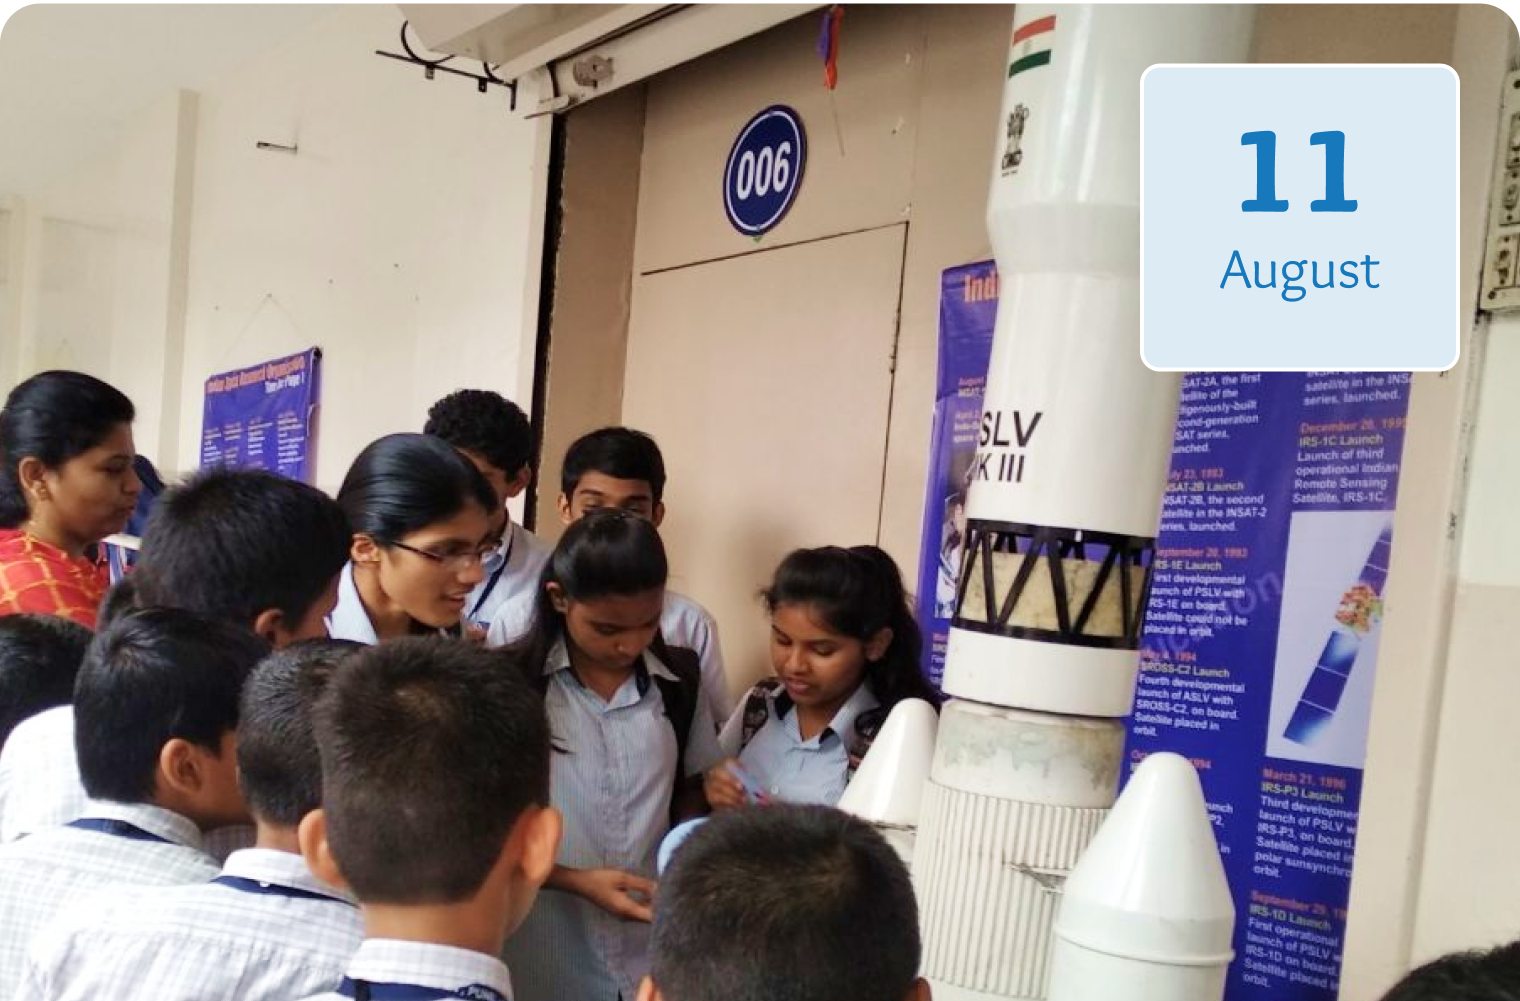
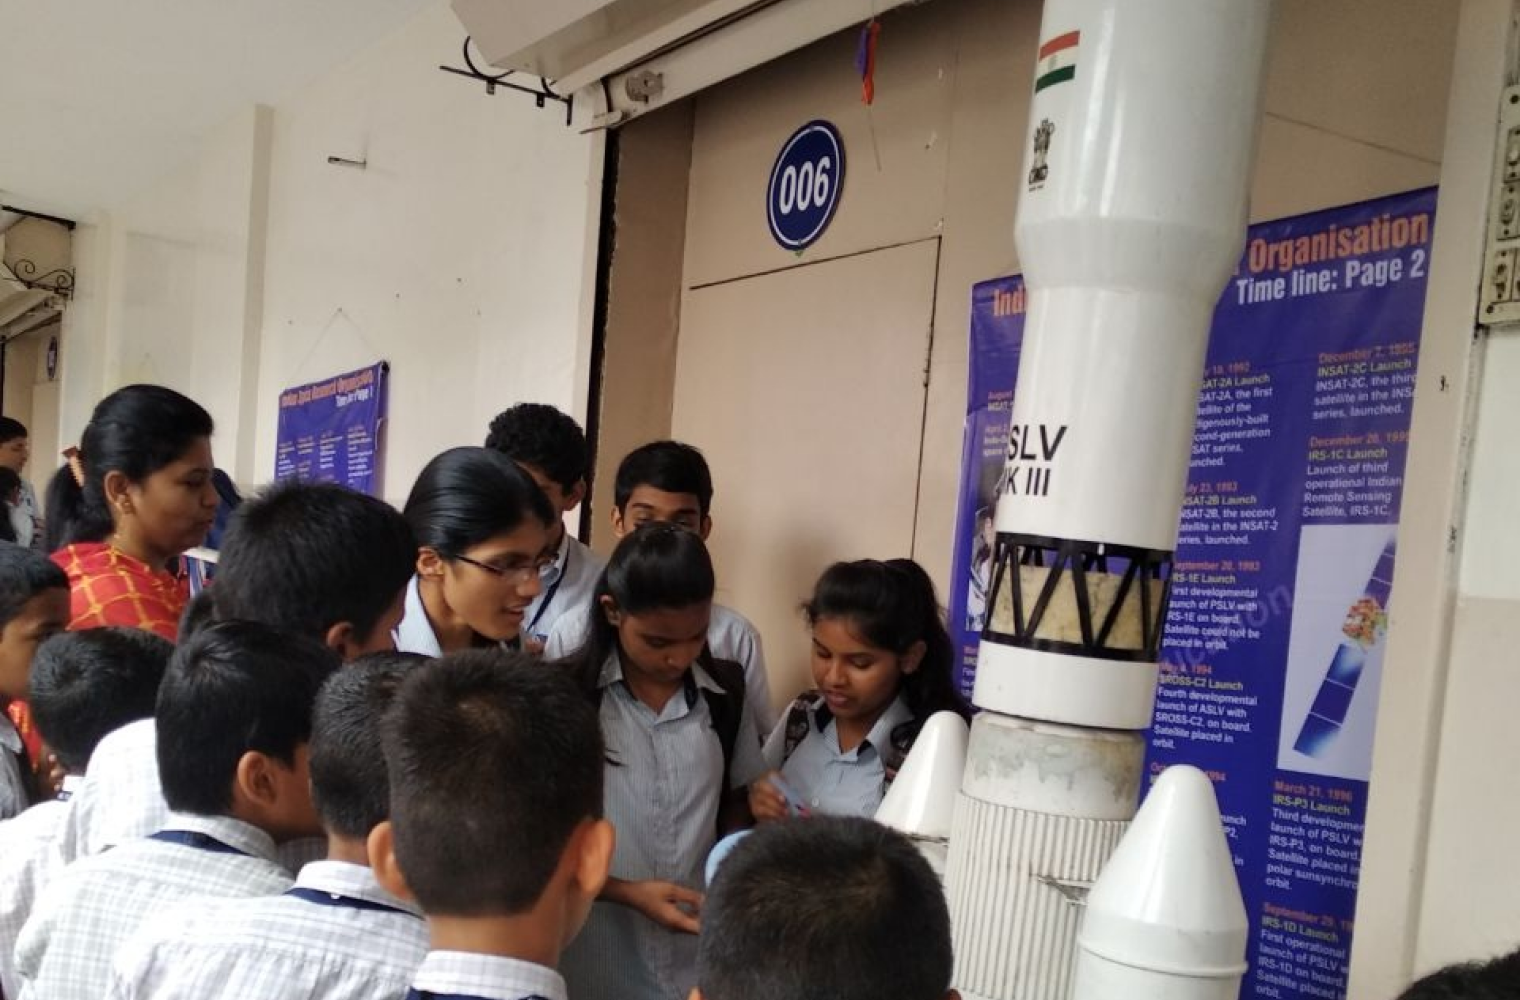
code update

diff --git a/VG-School-Website-2024/Script.js b/VG-School-Website-2024/Script.js
@@ -112,7 +112,7 @@ const Events = [
       "Space Program was conducted by ISRO Scientest for the students of Vishwakarma Vidyalaya.",
     Time: "Time: 11:00am - 03:00pm",
     Place: "Location: VV, pune",
-    // EventCurrentMonth: "11",
+    EventCurrentMonth: "11",
     EventCurrentYear: "August",
   },
   {
@@ -122,7 +122,7 @@ const Events = [
       "An Aikido workshop which is a contemporary martial art of harmony was conducted for children at WWS, Balewadi.",
     Time: "Time: 11:00am - 03:00pm",
     Place: "Location: WWS, Balewadi",
-    // EventCurrentMonth: "11",
+    EventCurrentMonth: "11",
     EventCurrentYear: "August",
   },
   {
@@ -132,7 +132,7 @@ const Events = [
       "3 ISRO scientists visited Vishwakarma Vidyalaya and interacted with the students on topic of Space Technology during school’s science exhibition.",
     Time: "Time: 11:00am - 03:00pm",
     Place: "Location: vV pune",
-    // EventCurrentMonth: "11",
+    EventCurrentMonth: "11",
     EventCurrentYear: "August",
   },
 ];
@@ -142,6 +142,9 @@ const upcomingEvent = (eventData, index) => {
 <div class="item">
 <div class="event_img">
 <img src="${eventData.Img}" alt="${index}">
+<div class="current_tags position-absolute d-flex flex-column text-center align-items-center justify-content-center"><p>${eventData.EventCurrentMonth}</p>
+<p>${eventData.EventCurrentYear}</p></div>
+
 </div>
 <div class="event_body">
 <p>${eventData.Title}</p>

diff --git a/VG-School-Website-2024/Style.css b/VG-School-Website-2024/Style.css
@@ -373,6 +373,33 @@ div#box2 .heading_wrapper p:nth-child(2) {
   width: 13px;
 }
 
+.upcoming_events .owl-carousel .owl-item img{
+    border-radius: 10px 10px 0 0;
+}
+
+.upcoming_events .event_img .current_tags p:nth-child(1),.upcoming_events .event_img p:nth-child(2){
+    color: rgba(24, 120, 188, 1);
+    margin: 0;
+}
+ 
+.upcoming_events .event_img .current_tags p:nth-child(1){
+    font-weight: 900;
+    font-size: 30px;
+}
+.upcoming_events .event_img .current_tags p:nth-child(2){
+    font-weight: 400;
+    font-size: 14px;
+}
+
+.upcoming_events .current_tags {
+    top: 0;
+    right: 0;
+    background: rgba(221, 236, 245, 1);
+    padding: 10px 15px;
+    opacity: 0.9;
+    border-radius: 0 10px;
+}
+
 body .upcoming_events .owl-item.active {
   height: auto;
 }
